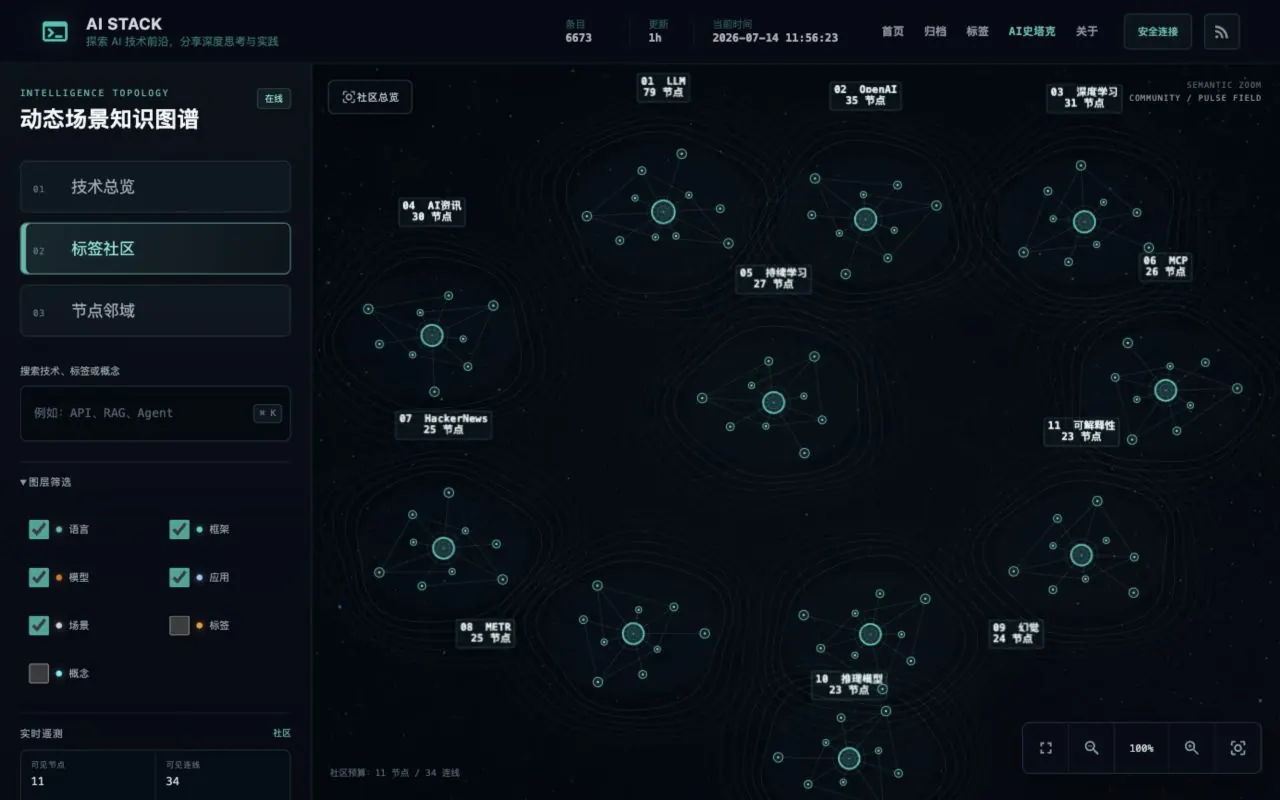
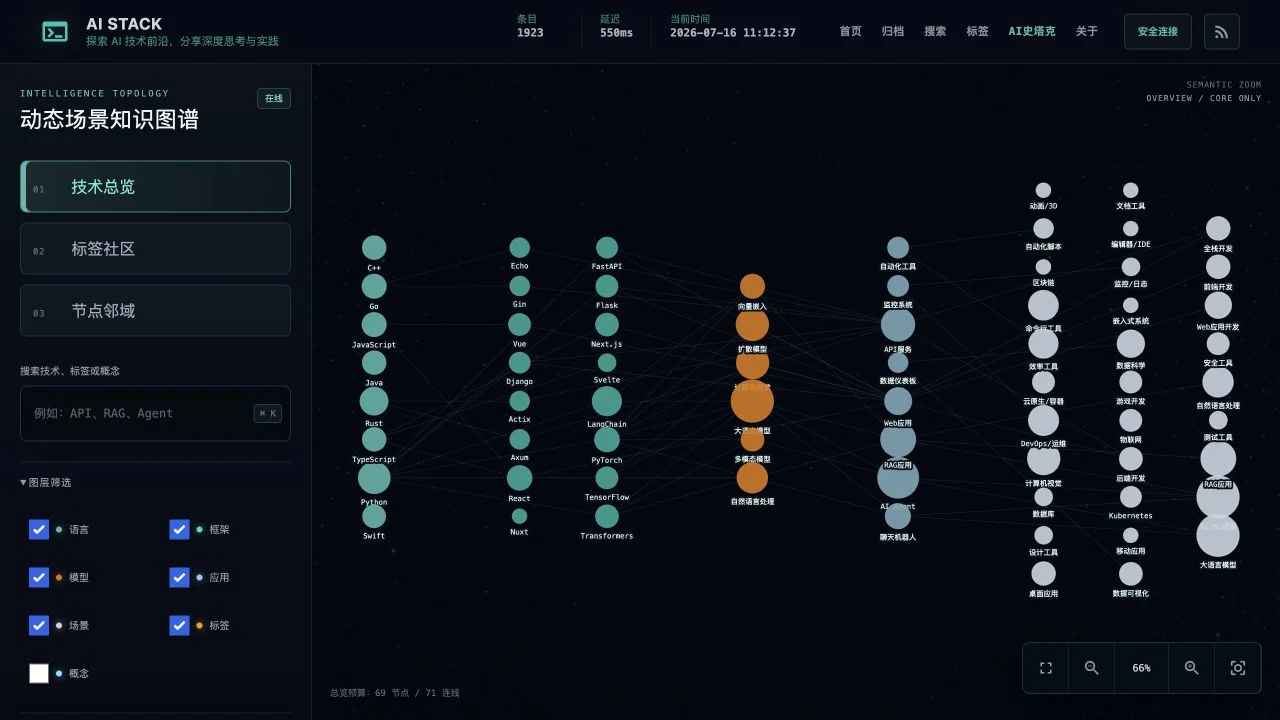
docs: refresh production visuals and security guidance

diff --git a/README.md b/README.md
@@ -2,7 +2,7 @@
 
 <h1>AI Stack · AI 史塔克</h1>
 
-<p><strong>开源的 AI 情报长期档案与动态场景知识图谱</strong></p>
+<p><strong>AI 情报长期档案与动态场景知识图谱</strong></p>
 <p>从多源采集、历史去重、AI 精炼，到文章归档、图谱探索与自动发布，一个仓库跑通最小闭环。</p>
 <p><em>From AI firehose to a living knowledge graph.</em></p>
 
@@ -58,7 +58,7 @@ flowchart LR
 | --- | --- | --- |
 | 🌐 在线浏览 | 浏览器 | 无需账户、无需密钥 |
 | 💻 本地启动 UI | Git + Hugo Extended | 不调用模型，不需要 Python |
-| 🤖 完整数据刷新 | Python 3.11+ + Anthropic Messages 兼容端点 | 仅模型 API 与可选自定义域名可能产生费用 |
+| 🤖 完整数据刷新 | Python 3.11+ + Anthropic Messages 兼容端点 | 主要可变成本为模型 API；可选域名、自建搜索或非标准运行环境也可能产生费用 |
 
 成本说明参考 GitHub 官方的 [Actions 计费说明](https://docs.github.com/en/actions/concepts/billing-and-usage) 与 [Pages 使用限制](https://docs.github.com/en/pages/getting-started-with-github-pages/github-pages-limits)。
 
@@ -68,7 +68,7 @@ flowchart LR
   <img src="./docs/assets/readme/graph-demo.gif" alt="AI Stack 动态场景知识图谱演示" width="100%" />
 </a>
 
-<p align="center"><sub>8.4 秒真实交互：技术总览 → 标签社区 → 搜索 → 节点邻域 → 详情联动</sub></p>
+<p align="center"><sub>8.3 秒真实交互：技术总览 → 标签社区 → 搜索 → 节点邻域 → 详情联动</sub></p>
 
 ## 🛰 从信息洪流到可追溯洞察
 
@@ -76,22 +76,19 @@ flowchart LR
 
 <table>
   <tr>
-    <td width="50%" valign="top">
-      <a href="https://ai-stack.site/">
-        <img src="./docs/assets/readme/archive-feed.webp" alt="AI Stack 情报归档界面" width="100%" />
-      </a>
-      <br />
-      <sub><strong>01 · 长期归档</strong><br />跨来源内容沉淀为可搜索、可按日期回看的技术档案。</sub>
-    </td>
-    <td width="50%" valign="top">
-      <img src="./docs/assets/readme/article-detail.webp" alt="AI Stack 文章详情与来源摘要界面" width="100%" />
-      <br />
-      <sub><strong>02 · 文章精炼</strong><br />来源摘要、结构化正文、标签与元数据保留在同一页面。</sub>
-    </td>
+    <td width="50%" valign="top"><a href="https://ai-stack.site/"><img src="./docs/assets/readme/archive-feed.webp" alt="AI Stack 情报归档界面" width="100%" /></a><br /><sub><strong>01 · 长期归档</strong><br />跨来源内容沉淀为可搜索、可按日期回看的技术档案。</sub></td>
+    <td width="50%" valign="top"><img src="./docs/assets/readme/article-detail.webp" alt="AI Stack 文章详情与来源摘要界面" width="100%" /><br /><sub><strong>02 · 文章精炼</strong><br />来源摘要、结构化正文、标签与元数据保留在同一页面。</sub></td>
   </tr>
 </table>
 
 ### 03 · 分层图谱
+
+<table>
+  <tr>
+    <td width="50%" valign="top"><a href="https://ai-stack.site/scenarios/"><img src="./docs/assets/readme/graph-overview.webp" alt="AI Stack 技术总览分层图谱" width="100%" /></a><br /><sub><strong>技术总览</strong> · 首屏只载入 69 个核心节点与 71 条关系。</sub></td>
+    <td width="50%" valign="top"><a href="https://ai-stack.site/scenarios/"><img src="./docs/assets/readme/graph-focus.webp" alt="AI Stack API 搜索与节点邻域详情" width="100%" /></a><br /><sub><strong>节点邻域</strong> · 搜索后只展开一跳强关系与真实指标。</sub></td>
+  </tr>
+</table>
 
 | 模式 | 回答的问题 | 加载策略 |
 | --- | --- | --- |
@@ -162,8 +159,8 @@ bash scripts/run_local.sh
 
 | 触发方式 | 执行内容 | 设计目的 |
 | --- | --- | --- |
-| Push 到 `main` | 验证并部署已提交快照，不调用模型 | 代码与样式更新快速上线 |
-| 每小时第 `17` 分钟 | 抓取、质量清单、图谱重建、生成数据提交与部署 | 自动刷新情报档案 |
+| Push 到 `main` | 验证并部署已提交快照，不执行抓取与模型处理 | 代码与样式更新快速上线 |
+| 计划在每小时第 `17` 分钟 | 抓取、质量清单、图谱重建、生成数据提交与部署 | 自动刷新情报档案 |
 | 手动触发 | 按需执行完整刷新 | 故障恢复与运营控制 |
 | 每 `6` 小时第 `23` 分钟 | 检查仓库与线上图谱新鲜度 | 及时发现数据停滞 |
 
@@ -171,7 +168,7 @@ bash scripts/run_local.sh
 
 ## ⚙ 配置与部署
 
-`scripts/setup.sh` 会从 [`.env.example`](./.env.example) 创建本地 `.env`。密钥只应放在本地环境或 GitHub Actions Secrets 中。
+`scripts/setup.sh` 会从 [`.env.example`](./.env.example) 创建本地 `.env`。密钥只应放在本地环境或 GitHub Actions Secrets 中；不要把真实值粘贴到截图、日志、Issue、PR 或文档里，疑似泄露时应立即轮换。
 
 | 变量 | 必需 | 用途 |
 | --- | --- | --- |
@@ -233,17 +230,7 @@ python3 -m pytest -q tests/test_graph_deploy_contract.py tests/test_site_header_
 - PR 检查规则：[`.github/workflows/ci.yml`](./.github/workflows/ci.yml)
 
 <div align="center">
-
 <h3>把一次性信息流，变成会持续生长的技术档案。</h3>
-
-<p>
-  <a href="https://ai-stack.site/"><strong>🚀 打开 AI Stack</strong></a>
-  ·
-  <a href="https://github.com/g5n-dev/ai-stack"><strong>⭐ 点亮 Star</strong></a>
-  ·
-  <a href="https://github.com/g5n-dev/ai-stack/fork"><strong>🍴 Fork 最小闭环</strong></a>
-</p>
-
+<p><a href="https://ai-stack.site/"><strong>🚀 打开 AI Stack</strong></a> · <a href="https://github.com/g5n-dev/ai-stack"><strong>⭐ 点亮 Star</strong></a> · <a href="https://github.com/g5n-dev/ai-stack/fork"><strong>🍴 Fork 最小闭环</strong></a></p>
 <strong>Built for traceable intelligence, not disposable feeds.</strong>
-
 </div>
